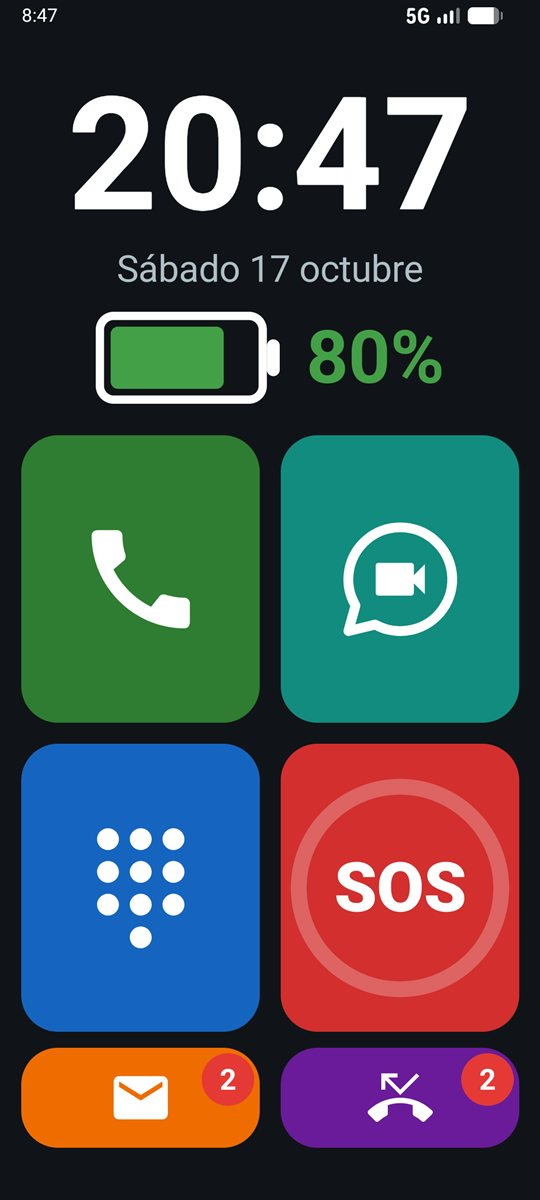
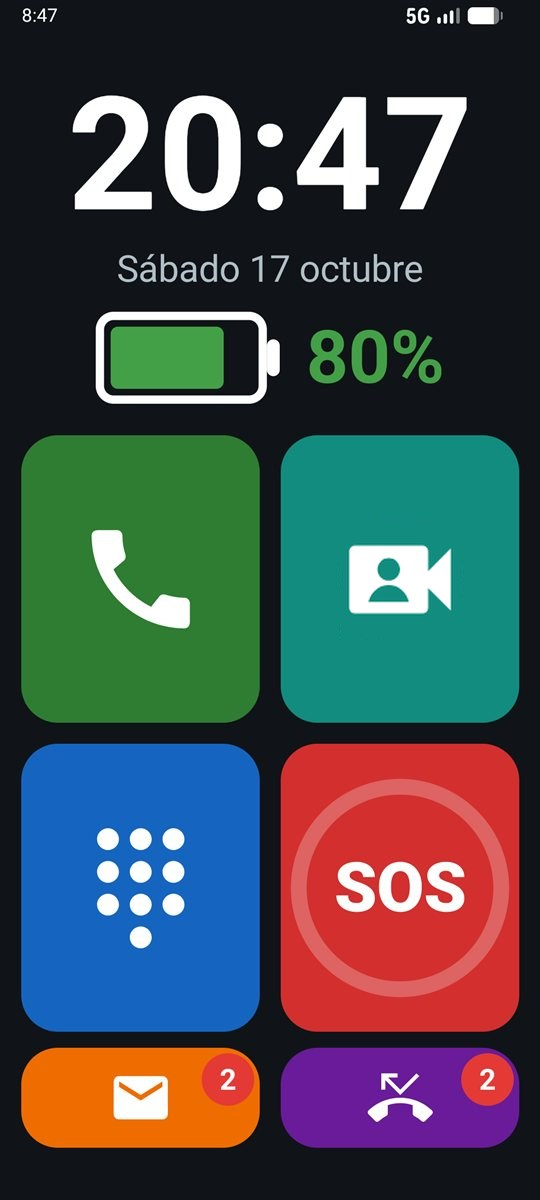
Versión 1.9.2: iconos nuevos para los botones de WhatsApp
- WhatsApp completo: bocadillo redondo con un teléfono (ic_whatsapp_chat).
- Videollamada: cámara de vídeo con una persona dentro (ic_whatsapp_video),
  para que no se confunda con el de WhatsApp completo.
- Los dos son un solo trazado con huecos (evenOdd) para el tinte blanco.
- Capturas 01, 17, 20, 21, 30, 33 y e13 con los iconos nuevos.

Changed region(s): [[0.6222, 0.4317, 0.8593, 0.555]]

diff --git a/app/src/main/java/com/launcherfacil/app/ui/HomeScreen.kt b/app/src/main/java/com/launcherfacil/app/ui/HomeScreen.kt
@@ -124,7 +124,7 @@ fun HomeScreen(
                             HomeItem.MISSED_CALLS ->
                                 SmallTileWithBadge(MoradoPerdidas, R.drawable.ic_phone_missed, newMissedCalls, onMissedCalls, modifier, fraction)
                             HomeItem.WHATSAPP_APP ->
-                                SmallTileWithBadge(CianWhatsApp, R.drawable.ic_chat, whatsAppUnread, onWhatsAppApp, modifier, fraction)
+                                SmallTileWithBadge(CianWhatsApp, R.drawable.ic_whatsapp_chat, whatsAppUnread, onWhatsAppApp, modifier, fraction)
                             HomeItem.EXERCISES -> BigTile(RosaEjercicios, onExercises, modifier) {
                                 TileIcon(R.drawable.ic_extension, fraction)
                             }

diff --git a/app/src/main/java/com/launcherfacil/app/ui/HomeLayoutEditor.kt b/app/src/main/java/com/launcherfacil/app/ui/HomeLayoutEditor.kt
@@ -200,7 +200,7 @@ private fun ItemBadge(item: HomeItem, sosIcon: SosIcon) {
         HomeItem.MESSAGES -> NaranjaMensajes to R.drawable.ic_sms
         HomeItem.MISSED_CALLS -> MoradoPerdidas to R.drawable.ic_phone_missed
         HomeItem.GO_HOME -> MarronCasa to R.drawable.ic_go_home
-        HomeItem.WHATSAPP_APP -> CianWhatsApp to R.drawable.ic_chat
+        HomeItem.WHATSAPP_APP -> CianWhatsApp to R.drawable.ic_whatsapp_chat
         HomeItem.EXERCISES -> RosaEjercicios to R.drawable.ic_extension
         HomeItem.RADIO -> AnilRadio to R.drawable.ic_radio
         HomeItem.CAMERA -> TurquesaCamara to R.drawable.ic_photo_camera

diff --git a/docs/FUNCIONES.md b/docs/FUNCIONES.md
@@ -67,7 +67,7 @@ Las mismas fotos, en el mismo orden, pero solo de las personas marcadas como "Ti
   <img src="img/capturas/31-whatsapp-casa.jpg" alt="Lista de chats con la pestaña de la casa en el borde derecho" width="230">
 </p>
 
-Un botón aparte, verde claro con un bocadillo, para quien quiera usar **WhatsApp entero**: chats, notas de voz, fotos y vídeos. Lleva un **número rojo** con los mensajes sin leer, que baja solo al leerlos.
+Un botón aparte, verde claro con un bocadillo redondo y un teléfono dentro, para quien quiera usar **WhatsApp entero**: chats, notas de voz, fotos y vídeos. Lleva un **número rojo** con los mensajes sin leer, que baja solo al leerlos.
 
 - Al tocarlo se abre WhatsApp, con el sonido de audios y vídeos activado.
 - Mientras se usa, una **pestaña pequeña con una casa**, pegada al borde derecho de la pantalla, vuelve a LlamaditApp con un toque. Es pequeña y semitransparente para tapar lo mínimo, y está por debajo de la barra de arriba de WhatsApp y por encima del teclado.
